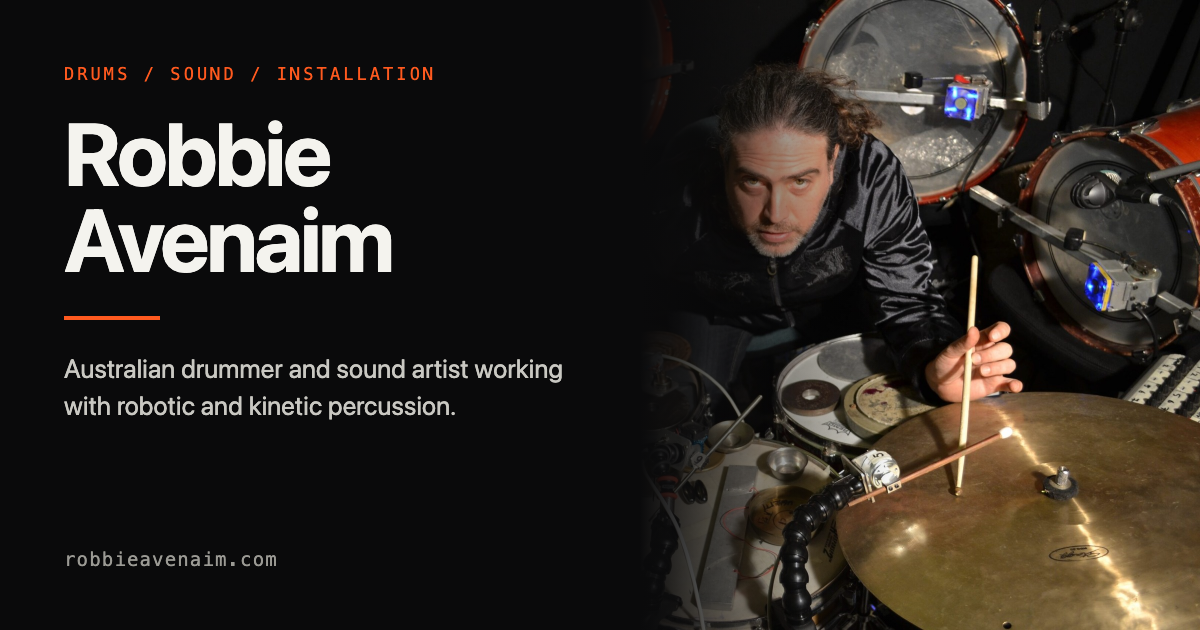
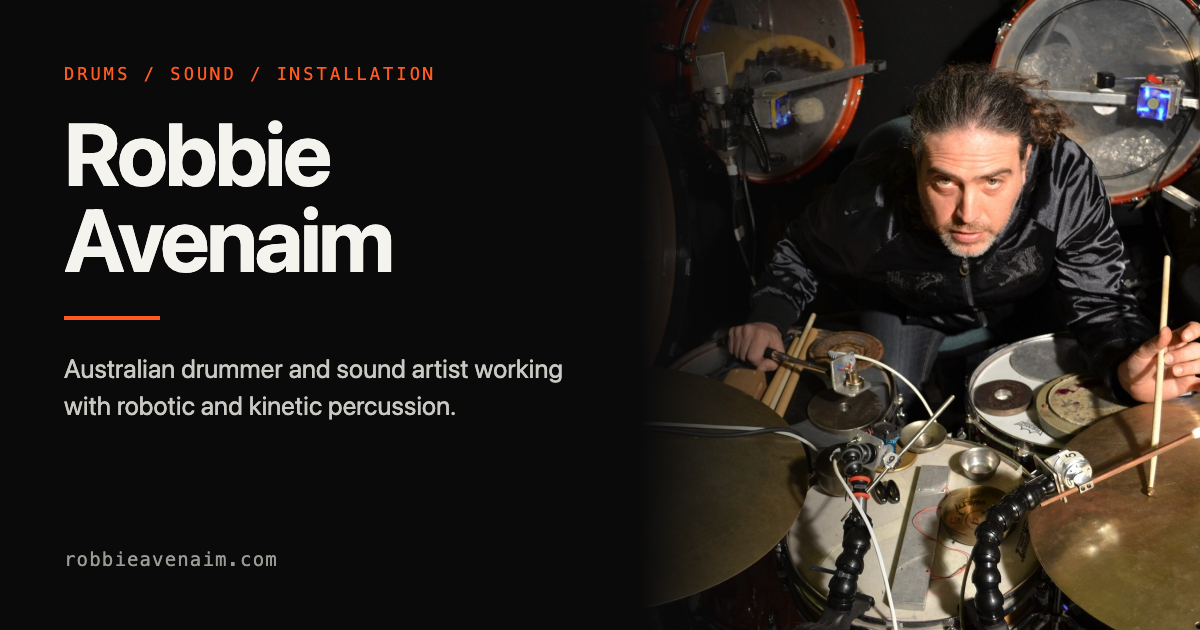
og card: centre the photo panel on the frame
The crop started 42% into the hero and got clamped to the frame's right edge,
so the panel showed the right-hand side of the photo and cut Robbie off. Centre
the crop instead: he now sits mid-panel with both hands in shot.

diff --git a/scripts/make-og.py b/scripts/make-og.py
@@ -27,6 +27,7 @@ TAGLINE = "Australian drummer and sound artist working with robotic and kinetic 
 DOMAIN = "robbieavenaim.com"
 
 PANEL_W, PANEL_H = 560, 630
+CROP_CENTRE = 0.50  # horizontal point of the hero frame to centre the panel on
 
 
 def photo_panel() -> str:
@@ -34,7 +35,9 @@ def photo_panel() -> str:
     im = Image.open(SOURCE)
     w, h = im.size
     crop_w = int(h * PANEL_W / PANEL_H)
-    left = min(int(w * 0.42), w - crop_w)  # keeps Robbie's face inside the panel
+    # Centred on the frame, so Robbie sits in the middle of the panel rather than
+    # against its edge. Nudge CROP_CENTRE if the hero photo is ever replaced.
+    left = max(0, min(int(w * CROP_CENTRE) - crop_w // 2, w - crop_w))
     panel = im.crop((left, 0, left + crop_w, h)).resize((PANEL_W * 2, PANEL_H * 2), Image.LANCZOS)
     with tempfile.NamedTemporaryFile(suffix=".jpg") as tmp:
         panel.save(tmp.name, quality=92)
